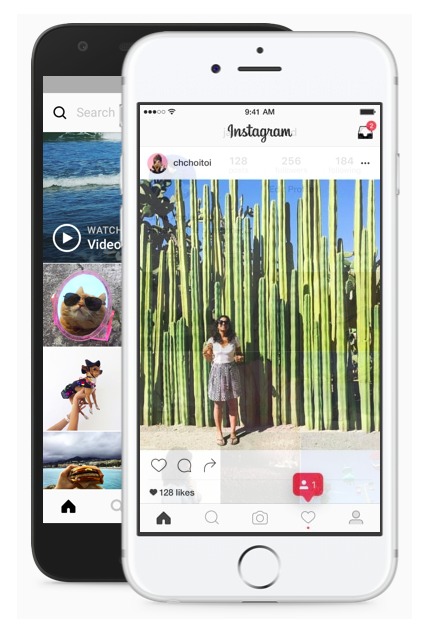
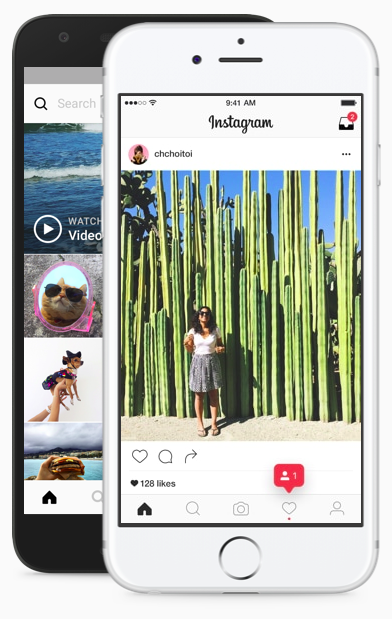
Changed login page style and photo

diff --git a/frontend/components/session/session_form.jsx b/frontend/components/session/session_form.jsx
@@ -75,7 +75,7 @@ class SessionForm extends React.Component {
         <div className="login-form-all">
           <img
             className="login-image"
-            src="http://res.cloudinary.com/annaoh/image/upload/v1511390018/login1_h72aid.png"
+            src="http://res.cloudinary.com/annaoh/image/upload/v1511564902/login1_rnnxgs.png"
           />
 
         <div className="login-form-container-login">
@@ -83,7 +83,10 @@ class SessionForm extends React.Component {
             <form onSubmit={this.handleSubmit} className="login-form-box">
 
 
-              <h1>Instagram</h1>
+              <img
+                className="login-instagram-logo"
+                src="https://upload.wikimedia.org/wikipedia/commons/thumb/2/2a/Instagram_logo.svg/1200px-Instagram_logo.svg.png"
+              />
 
               {this.renderErrors()}
 
@@ -139,14 +142,18 @@ class SessionForm extends React.Component {
         <div className="login-form-all">
           <img
             className="login-image"
-            src="http://res.cloudinary.com/annaoh/image/upload/v1511390018/login1_h72aid.png"
+            src="http://res.cloudinary.com/annaoh/image/upload/v1511564902/login1_rnnxgs.png"
           />
 
         <div className="login-form-container-signup">
             <form onSubmit={this.handleSubmit} className="login-form-box">
 
 
-              <h1>Instagram</h1>
+              <img
+                className="login-instagram-logo"
+                src="https://upload.wikimedia.org/wikipedia/commons/thumb/2/2a/Instagram_logo.svg/1200px-Instagram_logo.svg.png"
+              />
+            
               <h2>Sign up to see photos and videos from your friends.</h2>
               {this.renderErrors()}
 

diff --git a/app/assets/stylesheets/login/login.css b/app/assets/stylesheets/login/login.css
@@ -13,14 +13,22 @@
 
 
 .login-image {
-  width: 430px;
-  height: 640px;
+  width: 375px;
+  height: 600px;
 }
 
+.login-instagram-logo {
+  width:175px;
+  margin: 0 auto;
+
+}
 
 .login-form-container-login {
   width: 300px;
-  margin-top: 3%;
+  /*margin-top: 1%;*/
+  margin-left: 2%;
+  margin-right: 5%;
+
   height: 400px;
   padding: 20px;
 
@@ -31,14 +39,15 @@
   text-align: center;
 
   background: white;
-  border: 1px solid #e6e6e6;
-  border-radius: 1px;
+  /*border: 1px solid #e6e6e6;
+  border-radius: 1px;*/
 }
 
 
 .login-form-container-signup {
   width: 300px;
-  margin-top: 3%;
+  /*margin-top: 1%;*/
+  margin-right: 5%;
 
   height: 570px;
   padding: 20px;
@@ -50,8 +59,8 @@
   text-align: center;
 
   background: white;
-  border: 1px solid #e6e6e6;
-  border-radius: 1px;
+  /*border: 1px solid #e6e6e6;
+  border-radius: 1px;*/
 }
 
 
@@ -71,6 +80,12 @@
   padding-bottom: 20px;
 }
 
+.login-form-box > h4 {
+  width: 250px;
+  margin: 0 auto 20px auto;
+  font-weight: normal;
+  color: rgb(153, 153, 153);
+}
 
 .login-signup-errors {
   color: rgb(237, 73, 86);
@@ -118,7 +133,7 @@
   font-weight: bold;
   box-sizing: border-box;
   margin: 10px 10px;
-  padding: 3px 20px;
+  padding: 5px 20px;
   width: 270px;
   background: rgb(56, 151, 240);
   color: white;

diff --git a/app/assets/stylesheets/reset/header.css b/app/assets/stylesheets/reset/header.css
@@ -29,8 +29,12 @@ html, body, main {
 
   box-sizing: border-box;
 
-  background: #AD234B;
-  color: white;
+  /*background: #AD234B;*/
+  /*background: #fafafa;*/
+  background: white;
+  border-bottom: 1px solid #e6e6e6;
+
+  color: rgb(153, 153, 153);
   font-weight: bold;
 }
 
@@ -38,6 +42,12 @@ html, body, main {
   display: flex;
   flex-direction: column;
   justify-content: center;
+
+  padding-left: 10px;
+}
+
+.nav-bar-instagram-logo {
+  width: 110px;
 }
 
 .nav-right {
@@ -48,6 +58,18 @@ html, body, main {
   padding-left: 20px;
 }
 
+.header-group {
+  display: flex;
+  flex-direction: row;
+}
+
+.header-name {
+  padding: 10px 0;
+}
+
+.header-button {
+  padding: 10px 0px 10px 15px;
+}
 
 .login-signup {
   display: inline-flex;

diff --git a/frontend/components/App.jsx b/frontend/components/App.jsx
@@ -21,9 +21,10 @@ const App = () => (
 
     <div className="nav-container">
       <div className="nav-left">
-        <Link to={"/"} className="header-link">
-          <h1>Instagram</h1>
-        </Link>
+        <img
+          className="nav-bar-instagram-logo"
+          src="https://upload.wikimedia.org/wikipedia/commons/thumb/2/2a/Instagram_logo.svg/1200px-Instagram_logo.svg.png"
+        />
       </div>
       <div className="nav-right">
         <Route path="/" component={GreetingContainer} />

diff --git a/frontend/components/greeting/greeting.jsx b/frontend/components/greeting/greeting.jsx
@@ -28,7 +28,7 @@ class Greeting extends React.Component {
     if (currentUser){
       return(
         <div className="header-group">
-          <h2 className="header-name">Hi, {currentUser.username}!</h2>
+          <h2 className="header-name">Welcome, {currentUser.username}!</h2>
 
           <button className="header-button" onClick={this.props.logout}>
             Log out
